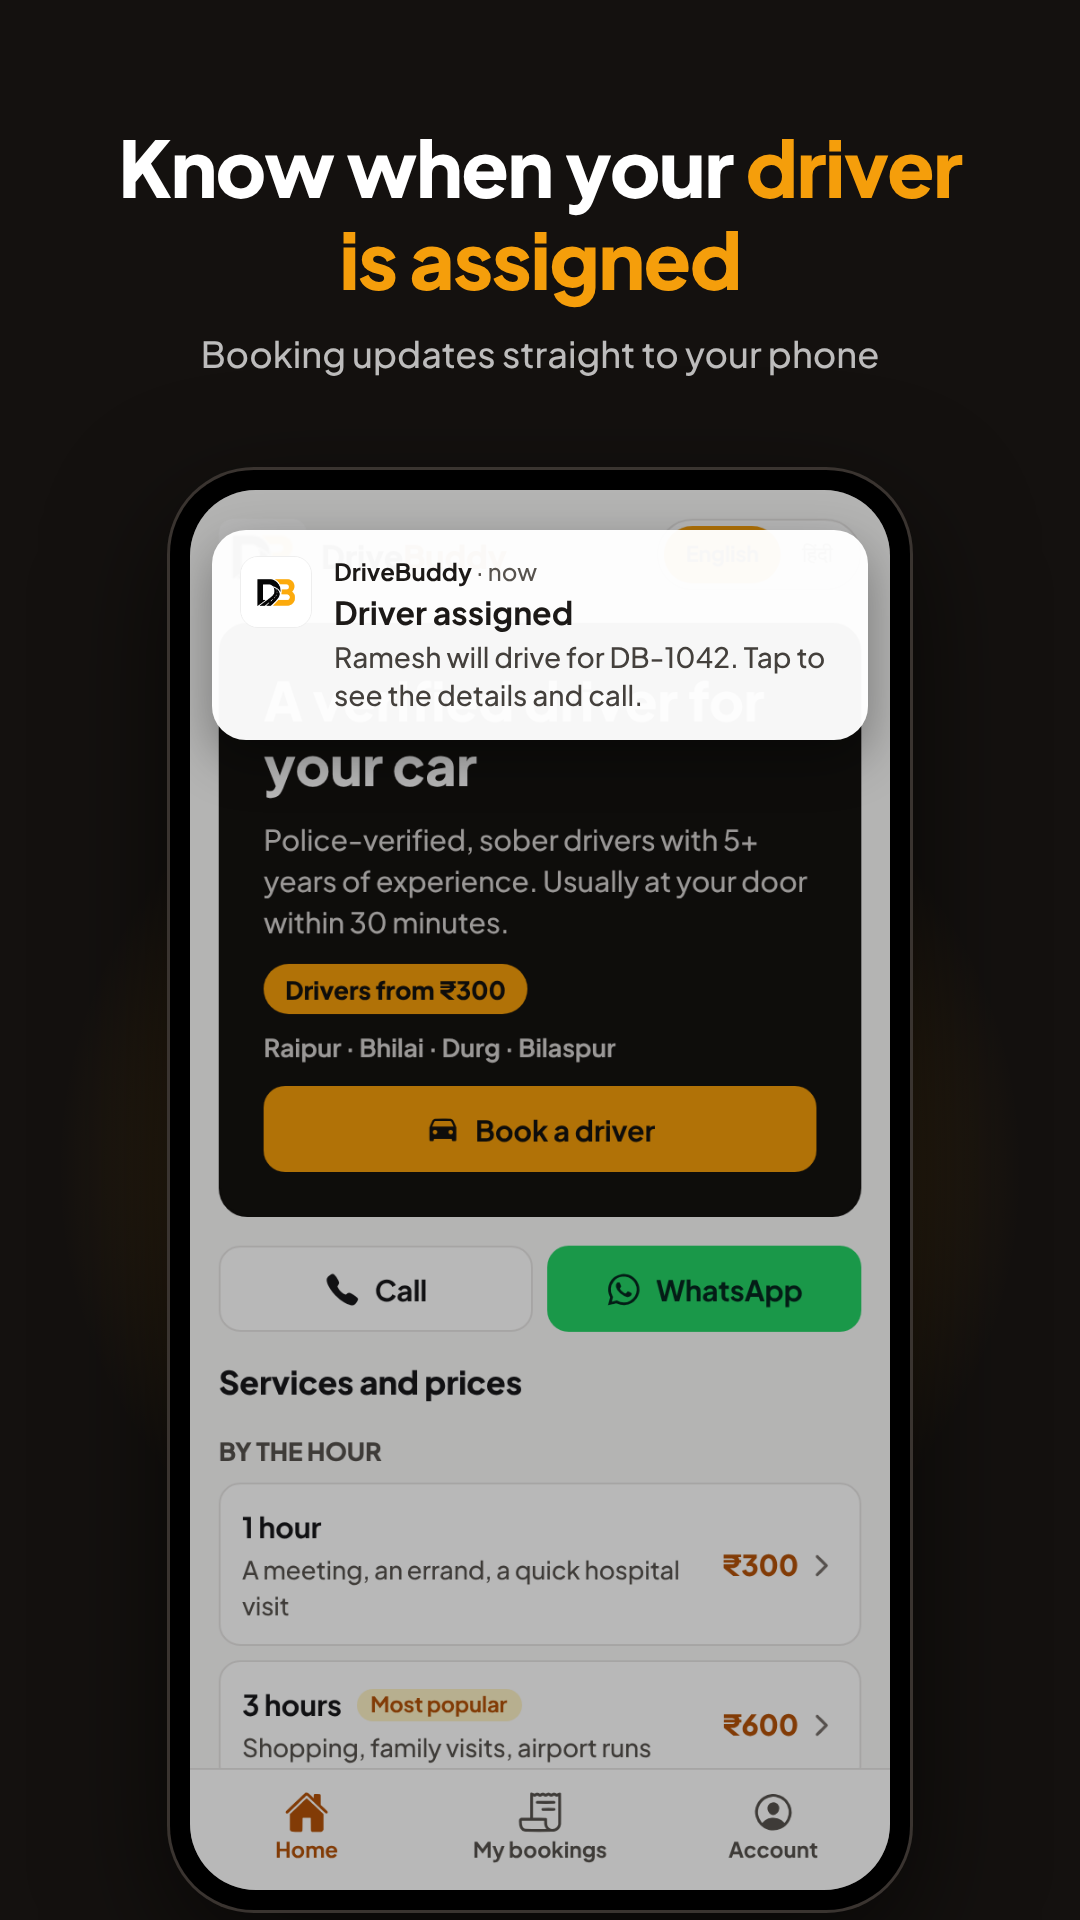
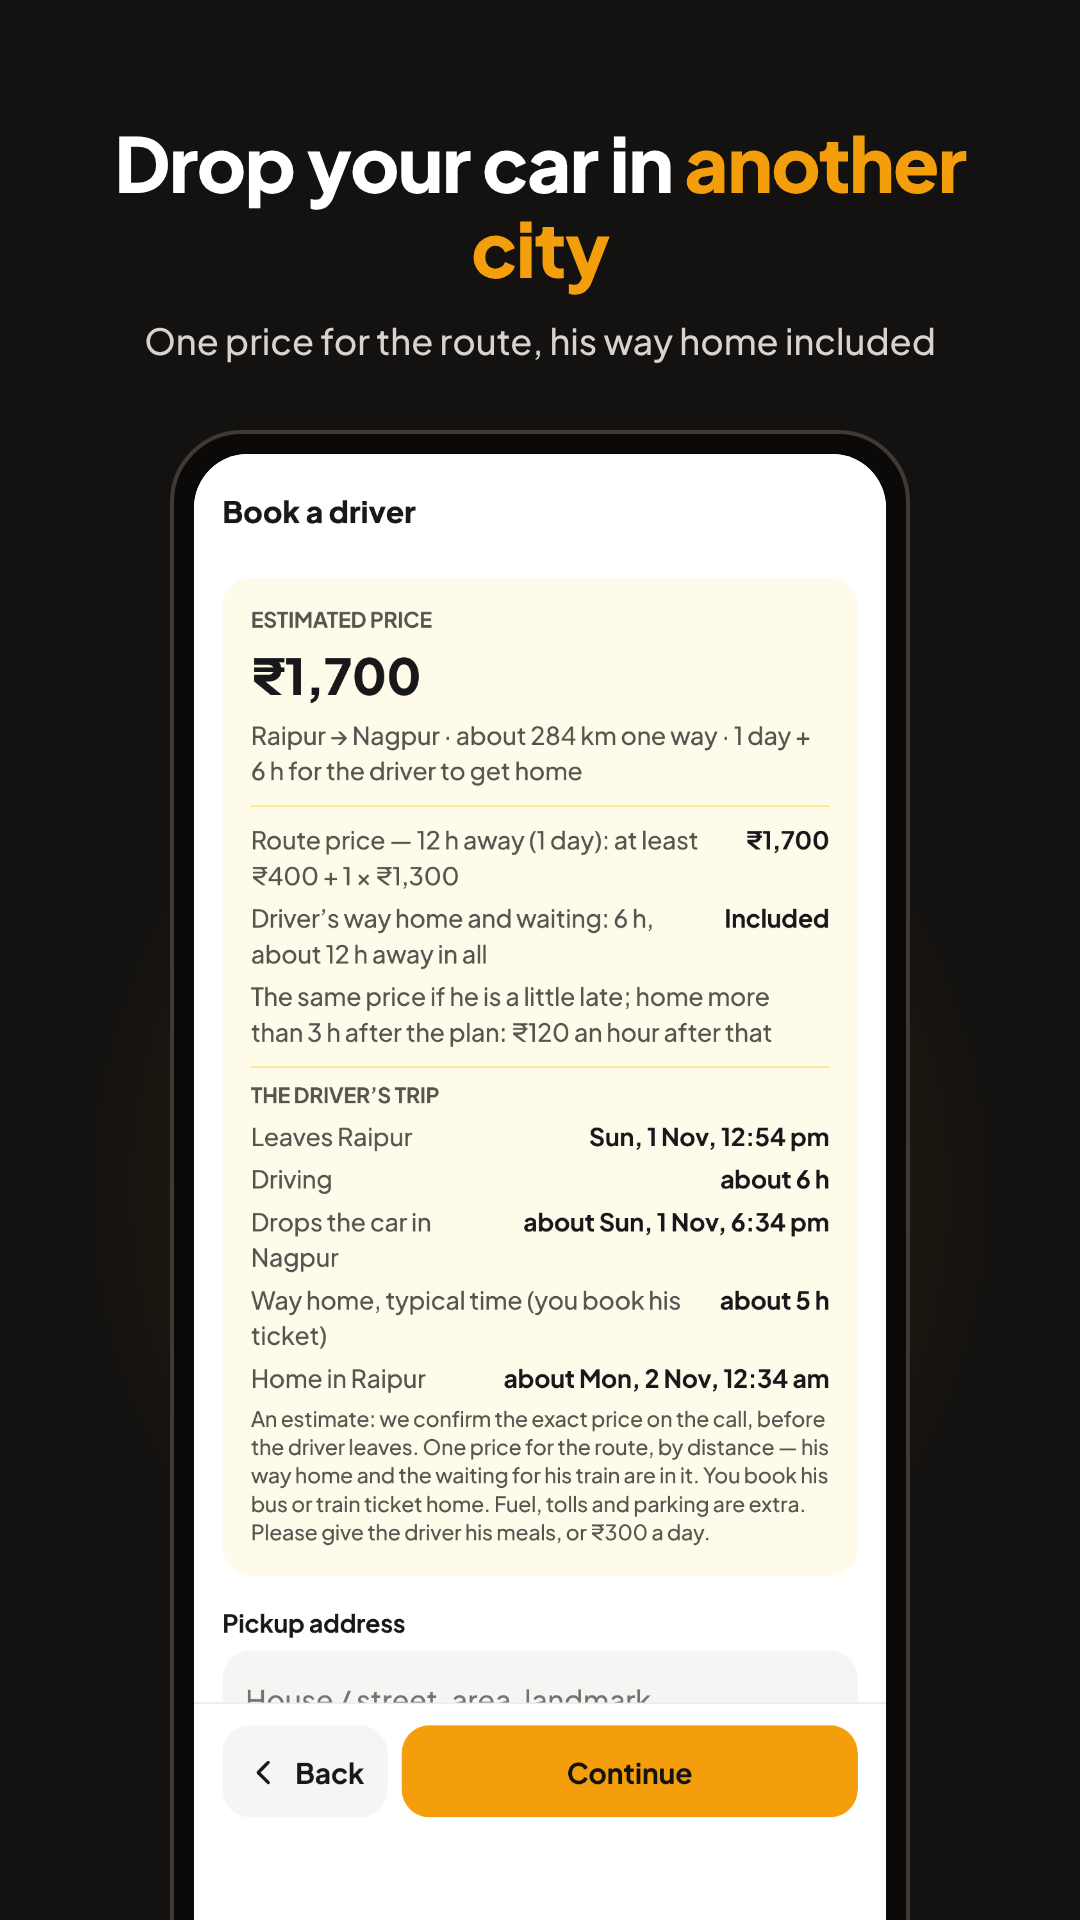
Play Store kit: today's screens; drops "by distance" on the service tiles
The service tiles still priced one-way drops at ₹1,550–1,650 a day (the
rule before the route price) and outstation at the farthest day price
only. Drops now say "By distance" (the form shows the route's price);
outstation shows the day price over every distance, ₹1,300–1,650/day.

The Play Store screenshots and feature graphic showed the old Home and
old prices. New ones from the current app, 5 in English and 5 in Hindi
(1080×1920, captioned): the new Home, every service with its price, the
booking form, a one-way drop with its route price, and the language
switch. The listing mentions the one price per route. store:check passes.

Claude-Session: https://claude.ai/code/session_01WRZjB81AFAanUczQSuNshq

diff --git a/packages/shared/src/prices.ts b/packages/shared/src/prices.ts
@@ -32,8 +32,10 @@ export type PackagePrice =
   | { kind: 'fixed'; amount: string }
   | { kind: 'from'; amount: string }
   | { kind: 'monthly'; amount: string }
-  /** Outstation trips and one-way drops, priced by the day (the form shows the trip estimate). */
+  /** Outstation trips, priced by the day — the range over every distance (the form shows the trip estimate). */
   | { kind: 'perDay'; amount: string }
+  /** One-way drops: short ones by the hour, longer ones one price by distance (the form shows the price for the route). */
+  | { kind: 'byDistance' }
   | { kind: 'priority' }
   | { kind: 'quote' };
 
@@ -47,8 +49,15 @@ export function packagePrice(config: AppConfig, id: PackageId): PackagePrice {
     case 'local-full-day':
       return { kind: 'fixed', amount: rupeeRange(p.fullDay) };
     case 'outstation':
+      return {
+        kind: 'perDay',
+        amount: rupeeRange({
+          from: Math.min(p.outstation.from, ...p.outstationNear.map((t) => t.from)),
+          to: p.outstation.to,
+        }),
+      };
     case 'one-way-drop':
-      return { kind: 'perDay', amount: rupeeRange(p.outstation) };
+      return { kind: 'byDistance' };
     case 'night-driver':
       return { kind: 'from', amount: rupees(p.nightFrom) };
     case 'monthly-basic':

diff --git a/packages/shared/src/prices.test.ts b/packages/shared/src/prices.test.ts
@@ -25,8 +25,10 @@ test('every package has a price shape', () => {
     amount: '₹16,000–17,000',
   });
   expect(packagePrice(DEFAULT_CONFIG, 'wedding-event')).toEqual({ kind: 'quote' });
-  expect(packagePrice(DEFAULT_CONFIG, 'outstation')).toEqual({ kind: 'perDay', amount: '₹1,550–1,650' });
-  expect(packagePrice(DEFAULT_CONFIG, 'one-way-drop')).toEqual({ kind: 'perDay', amount: '₹1,550–1,650' });
+  // Outstation: the day price over every distance (₹1,300 up to 150 km … ₹1,650 farthest).
+  expect(packagePrice(DEFAULT_CONFIG, 'outstation')).toEqual({ kind: 'perDay', amount: '₹1,300–1,650' });
+  // One-way drops: by the hour when short, one price by distance when longer — never "a day".
+  expect(packagePrice(DEFAULT_CONFIG, 'one-way-drop')).toEqual({ kind: 'byDistance' });
 });
 
 test('prices follow the downloaded config, not the package id', () => {

diff --git a/apps/customer/src/__tests__/screens.test.tsx b/apps/customer/src/__tests__/screens.test.tsx
@@ -134,6 +134,9 @@ describe('Booking, step by step', () => {
     await openBooking();
     expect(screen.getByTestId('booking-progress')).toHaveTextContent(/Step 1 of 3/);
     expect(screen.getAllByTestId(/^tile-/)).toHaveLength(8);
+    // Drops are priced by distance; outstation by the day, over every distance.
+    expect(screen.getByTestId('tile-drop')).toHaveTextContent(/By distance/);
+    expect(screen.getByTestId('tile-outstation')).toHaveTextContent(/₹1,300–1,650\/day/);
     await fireEvent.press(screen.getByTestId('tile-hourly'));
     expect(screen.getByText('Choose one')).toBeOnTheScreen();
     await fireEvent.press(screen.getByTestId('choice-3-hours-600'));

diff --git a/apps/customer/src/i18n/hi.ts b/apps/customer/src/i18n/hi.ts
@@ -120,6 +120,7 @@ export const hi: Messages = {
     perDay: (amount: string) => `${amount}/दिन`,
     monthlyFrom: (amount: string) => `${amount}/माह से`,
     priority: 'प्राथमिकता',
+    byDistance: 'दूरी के हिसाब से',
     quote: 'कॉल पर कीमत',
   },
 

diff --git a/apps/customer/src/i18n/format.ts b/apps/customer/src/i18n/format.ts
@@ -64,6 +64,8 @@ export function priceLabel(t: Messages, price: PackagePrice): string {
       return t.price.monthly(price.amount);
     case 'perDay':
       return t.price.perDay(price.amount);
+    case 'byDistance':
+      return t.price.byDistance;
     case 'priority':
       return t.price.priority;
     case 'quote':

diff --git a/apps/customer/src/i18n/en.ts b/apps/customer/src/i18n/en.ts
@@ -123,6 +123,7 @@ export const en = {
     perDay: (amount: string) => `${amount}/day`,
     monthlyFrom: (amount: string) => `from ${amount}/mo`,
     priority: 'Priority',
+    byDistance: 'By distance',
     quote: 'Quote on call',
   },
 

diff --git a/apps/customer/store/google-play/listing-hi-IN.md b/apps/customer/store/google-play/listing-hi-IN.md
@@ -32,7 +32,7 @@ DriveBuddy रायपुर, नवा रायपुर (अटल नगर
 • अस्पताल और इमरजेंसी, शादी और इवेंट
 
 साफ़ कीमतें
-बुक करने से पहले ऐप में हमारी मौजूदा कीमतें दिखती हैं, जैसे 1 घंटे के ₹300, 3 घंटे के ₹600 और पूरे दिन के ₹1,000–1,200। ऐप में कोई पेमेंट नहीं: ड्राइवर के निकलने से पहले हम कॉल करके कीमत तय करते हैं।
+बुक करने से पहले ऐप में हमारी मौजूदा कीमतें दिखती हैं, जैसे 1 घंटे के ₹300, 3 घंटे के ₹600 और पूरे दिन के ₹1,000–1,200। दूसरे शहर तक वन-वे ड्रॉप में आपके रूट की एक कीमत दिखती है, ड्राइवर की घर वापसी शामिल। ऐप में कोई पेमेंट नहीं: ड्राइवर के निकलने से पहले हम कॉल करके कीमत तय करते हैं।
 
 कैसे काम करता है
 1. सेवा, अपना शहर और पिकअप का पता चुनें।

diff --git a/apps/customer/store/google-play/listing-en-IN.md b/apps/customer/store/google-play/listing-en-IN.md
@@ -32,7 +32,7 @@ WHAT YOU CAN BOOK
 • Hospital visits and emergencies, weddings and events
 
 CLEAR PRICES
-The app shows our current prices before you book, for example ₹300 for 1 hour, ₹600 for 3 hours and ₹1,000–1,200 for a full day. There is no payment in the app: we call you to confirm the price before the driver leaves.
+The app shows our current prices before you book, for example ₹300 for 1 hour, ₹600 for 3 hours and ₹1,000–1,200 for a full day. A one-way drop to another city shows one price for your route, with the driver's way home included. There is no payment in the app: we call you to confirm the price before the driver leaves.
 
 HOW IT WORKS
 1. Choose a service, your city and your pickup address.
